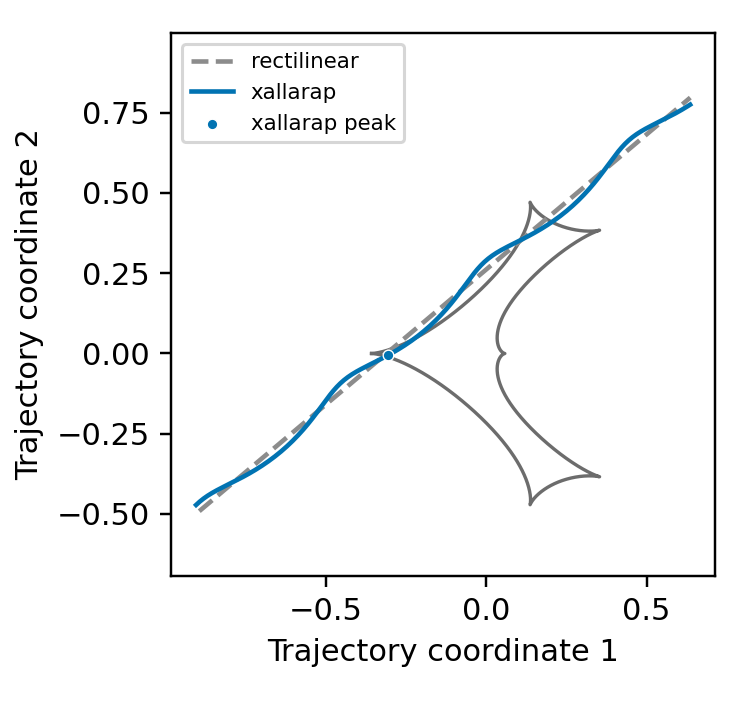
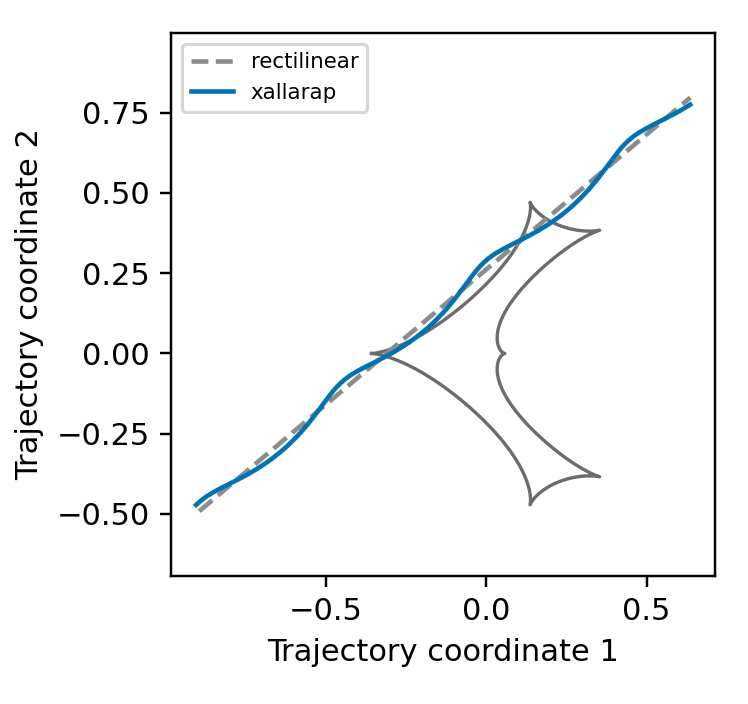
docs: remove xallarap peak marker

Changed region(s): [[0.2152, 0.0625, 0.5535, 0.2188]]

diff --git a/example/docs-python/generate_figures.py b/example/docs-python/generate_figures.py
@@ -509,17 +509,12 @@ def xallarap_single_source():
     save("Xallarap_velocity_lightcurve.png")
     trajectory = velocity.source_trajectory(times, velocity_params)
     caustics = velocity.caustics(velocity_params)
-    peak = np.argmax(velocity(times, velocity_params))
     plt.figure(figsize=(3.4, 3.2))
     for x, y in zip(caustics.x, caustics.y):
         plt.plot(x, y, color="#6C6C6C", lw=1.1)
     static_trajectory = static.source_trajectory(times, velocity_static_params)
     plt.plot(static_trajectory.x, static_trajectory.y, color="0.55", ls="--", label="rectilinear")
     plt.plot(trajectory.x, trajectory.y, color="#0173B2", label="xallarap")
-    plt.scatter(
-        trajectory.x[peak], trajectory.y[peak], s=12, color="#0173B2",
-        edgecolor="white", linewidth=0.45, zorder=3, label="xallarap peak",
-    )
     plt.xlabel("Trajectory coordinate 1")
     plt.ylabel("Trajectory coordinate 2")
     plt.axis("equal")
